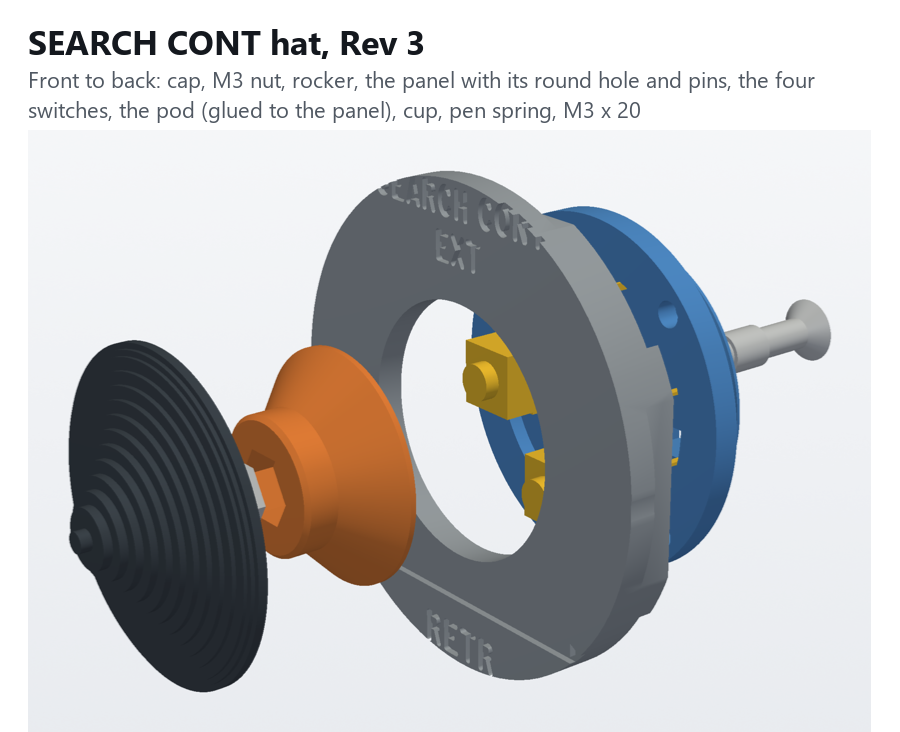
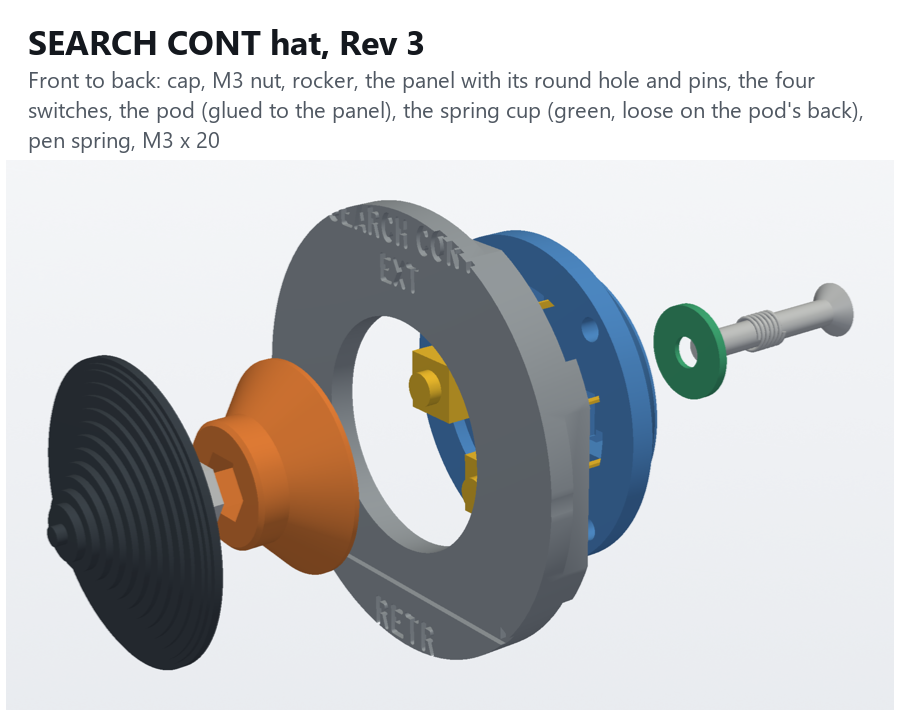
Hat Rev 3 renders: show the spring cup and spring
The cup was hidden behind the pod in the exploded view and the same blue as the
pod in the section, and the spring wasn't drawn at all. Now the cup is green,
the back stack is spread clear of the pod, the spring is a wire coil, and a new
render shows the hat from behind with the cup in place. In the pushed section
the cup slides with the screw, as it does in use.

The check now also slides the loose cup to follow the tipped screw (up to
1.3 mm) and confirms it hits nothing. The README says where the cup goes and
not to glue it.

diff --git a/Head/Rev5/Hat/render_hat3.py b/Head/Rev5/Hat/render_hat3.py
@@ -13,6 +13,8 @@ import hat3_r5 as m3
 import huey_head_r5 as h
 from render_hat2 import render, titled, GREY, DARK, YELLOW, ORANGE, BLUE, STEEL, FONT_B
 
+GREEN = "#3fae7c"                                       # the spring cup, so it stands out from the pod
+
 
 def panel_crop():
     lp, _ = m3.lower_panel()
@@ -27,16 +29,47 @@ def switches():
     return out
 
 
+def coil(warp=None, turns=6, wire=0.4, od=4.0):
+    """The pen spring as a wire helix, from the cup's seat to the screw head, as fitted. warp(p) moves its points
+    (N x 3) for a tipped pose."""
+    y0 = m3.Y_BACK + m3.CUP_T - m3.CUP_SEAT[1]
+    L, rm = m3.spring_len(), (od - wire) / 2
+    w = mf.Manifold.cylinder(turns, wire / 2, wire / 2, 12).refine_to_length(0.03)
+
+    def f(p):
+        t = p[:, 2]
+        a = 2 * np.pi * t
+        er = np.stack([np.cos(a), np.zeros_like(a), np.sin(a)], 1)
+        c = rm * er + np.stack([np.zeros_like(t), y0 + wire / 2 + t / turns * (L - wire), np.zeros_like(t)], 1)
+        q = c + p[:, :1] * er + p[:, 1:2] * [0, 1, 0]
+        return q if warp is None else warp(q)
+    return w.warp_batch(f)
+
+
+def pushed(n, d, th):
+    """The cup slid to follow the screw, and the spring between it and the tipped head."""
+    sx, sz = m3.cup_shift(n, d, th)
+    R, t = m3.tip_matrix(n, d, th)
+    y0, y1 = m3.Y_BACK + m3.CUP_T - m3.CUP_SEAT[1], m3.Y_BACK + m3.CUP_T - m3.CUP_SEAT[1] + m3.spring_len()
+
+    def warp(q):
+        s = np.clip((q[:, 1:2] - y0) / (y1 - y0), 0, 1)
+        return (1 - s) * (q + [sx, 0, sz]) + s * (q @ R.T + t)
+    return m3.cup().translate((sx, 0, sz)), coil(warp)
+
+
 def exploded(out):
     g = 10.0
+    back = 1.2 * g + 16                                 # the cup, spring and screw spread out behind the pod, clear of it
     items = [(m3.cap().translate((0, -2.6 * g, 0)), DARK), (m3.nut().translate((0, -1.9 * g, 0)), STEEL),
              (m3.rocker().translate((0, -1.4 * g, 0)), ORANGE), (panel_crop(), GREY),
              (switches().translate((0, 0.6 * g, 0)), YELLOW), (m3.pod().translate((0, 1.2 * g, 0)), BLUE),
-             (m3.cup().translate((0, 1.8 * g, 0)), BLUE), (m3.spring().translate((0, 2.2 * g, 0)), STEEL),
-             (m3.screw().translate((0, 2.8 * g, 0)), STEEL)]
+             (m3.cup().translate((0, back, 0)), GREEN), (coil().translate((0, back + 8, 0)), STEEL),
+             (m3.screw().translate((0, back + 16, 0)), STEEL)]
     img = render(items, view=(1.0, -0.8, 0.5), up=(0, 0, 1), zoom=1.1)
     titled(img, "SEARCH CONT hat, Rev 3", "Front to back: cap, M3 nut, rocker, the panel with its round hole and pins, "
-           "the four switches, the pod (glued to the panel), cup, pen spring, M3 x 20", out)
+           "the four switches, the pod (glued to the panel), the spring cup (green, loose on the pod's back), "
+           "pen spring, M3 x 20", out)
 
 
 def pod_view(out):
@@ -45,15 +78,26 @@ def pod_view(out):
            "pockets, and the three holes for the panel's pins. It prints back down", out)
 
 
+def back_view(out):
+    """Assembled, from behind: where the cup, spring and screw go."""
+    items = [(panel_crop(), GREY), (m3.pod(), BLUE), (switches(), YELLOW), (m3.cup(), GREEN), (coil(), STEEL),
+             (m3.screw(), STEEL), (m3.rocker(), ORANGE), (m3.cap(), DARK)]
+    img = render(items, view=(0.55, 1.0, 0.55), up=(0, 0, 1), zoom=1.15)
+    titled(img, "Rev 3 hat from behind", "The spring cup (green) sits loose on the middle of the pod's back, seat "
+           "outward, with the screw through it. The pen spring sits in the seat, under the screw's head. "
+           "Don't glue the cup: it slides a little as the hat tips", out)
+
+
 def section(out):
     half = mf.Manifold.cube((40, 40, 60)).translate((-40, -20, -30))
-    fixed = [(panel_crop(), GREY), (switches(), YELLOW), (m3.pod(), BLUE), (m3.cup(), BLUE)]
+    fixed = [(panel_crop(), GREY), (switches(), YELLOW), (m3.pod(), BLUE)]
     n, d = np.array([0.0, 1.0]), m3.R_OCT
     th = next(t for t in np.radians(np.arange(0, 20, 0.05)) if m3.btn_travel(n, d, t)[0] >= m3.BTN_GAP + m3.CLICK[1])
     imgs = []
     for t in (0.0, th):
         moving = [(m3.tipped(p, n, d, t), c) for p, c in ((m3.rocker(), ORANGE), (m3.cap(), DARK), (m3.screw(), STEEL), (m3.nut(), STEEL))]
-        items = [(mm ^ half, c) for mm, c in fixed + moving]
+        cup, spring = pushed(n, d, t) if t else (m3.cup(), coil())
+        items = [(mm ^ half, c) for mm, c in fixed + moving + [(cup, GREEN), (spring, STEEL)]]
         imgs.append(render(items, view=(1, 0, 0), up=(0, 0, 1), zoom=1.05, parallel=True))
     W, Hh = imgs[0].width + imgs[1].width, max(i.height for i in imgs)
     both = Image.new("RGB", (W, Hh + 40), (250, 251, 252))
@@ -64,7 +108,9 @@ def section(out):
     d_.text((30, 6), "At rest: the boss sits on the anvil", font=f, fill=(20, 24, 30))
     d_.text((imgs[0].width + 30, 6), f"Pushed north, {np.degrees(th):.1f} degrees: N clicks", font=f, fill=(20, 24, 30))
     titled(both, "Rev 3 hat, cut north to south", "Thumb side to the left, north up. The rocker tips over the anvil's "
-           "north edge; the north button goes in and the south side lifts. A push on the middle goes into the anvil", out)
+           "north edge; the north button goes in and the south side lifts. A push on the middle goes into the anvil. "
+           "Behind the pod, the pen spring is squeezed between the spring cup (green) and the screw's head, so it pulls "
+           "the screw, and with it the rocker, back onto the anvil", out)
 
 
 if __name__ == "__main__":
@@ -72,4 +118,5 @@ if __name__ == "__main__":
     os.makedirs(out, exist_ok=True)
     exploded(os.path.join(out, "hat3_exploded.png"))
     pod_view(os.path.join(out, "hat3_pod.png"))
+    back_view(os.path.join(out, "hat3_back.png"))
     section(os.path.join(out, "hat3_section.png"))

diff --git a/Head/Rev5/Hat/hat3_r5.py b/Head/Rev5/Hat/hat3_r5.py
@@ -277,6 +277,17 @@ def modes():
     return out
 
 
+def cup_shift(n, d, theta):
+    """Where the tipped screw's axis crosses the cup's mid-plane, (x, z): the loose cup is dragged there, sliding on
+    the pod's back (its hole is only 0.2 mm bigger than the screw)."""
+    R, t = tip_matrix(n, d, theta)
+    p0, p1 = R @ [0, 0, 0] + t, R @ [0, 1, 0] + t
+    yc = Y_BACK + CUP_T / 2
+    s = (yc - p0[1]) / (p1[1] - p0[1])
+    p = p0 + s * (p1 - p0)
+    return np.array([p[0], p[2]])
+
+
 def vol(m):
     return m.volume() if m.num_vert() else 0.0
 
@@ -313,7 +324,7 @@ def check():
 
     print("\nevery way it can tip, to where it stops (buttons left out: they bottom first, see the angles):")
     print(f"  {'mode':14s} {'stop':>6s}  {'N':>5s} {'E':>5s} {'S':>5s} {'W':>5s}  click nom/max at   stopped by")
-    worst = []
+    worst, cups = [], []
     for label, n, d in modes():
         lo, hi = 0.0, np.radians(30)
         assert not hits(1e-4, n, d), (label, hits(1e-4, n, d))
@@ -333,9 +344,16 @@ def check():
             return float("nan")
         clicks = sum(v >= BTN_GAP + CLICK[2] for v in tr)
         worst.append((label, s[-3] if len(s) > 2 else 0, clicks))
+        sx, sz = cup_shift(n, d, lo)
+        slid = cup().translate((sx, 0, sz))
+        cup_bad = [k for k, m in (("screw", tipped(screw(), n, d, lo)), ("pod", P), ("legs", legs)) if vol(slid ^ m) > 0.002]
+        cups.append((np.hypot(sx, sz), cup_bad))
         print(f"  {label:14s} {np.degrees(lo):5.1f}d  " + " ".join(f"{v:5.2f}" for v in tr) +
               f"  {first(CLICK[1]):4.1f} / {first(CLICK[2]):4.1f}d   " + ", ".join(hits(hi, n, d)))
     print(f"\nmost a third button moves: {max(w[1] for w in worst):.3f} mm (a click needs {BTN_GAP + CLICK[0]:.2f} at the least)")
+    bad = sorted({k for _, b in cups for k in b})
+    print(f"the loose cup slides up to {max(c[0] for c in cups):.2f} mm on the pod's back, following the screw; "
+          f"slid, it hits: {', '.join(bad) or 'nothing'}")
 
 
 def pod_trim(P):

diff --git a/Head/Rev5/Hat/README.md b/Head/Rev5/Hat/README.md
@@ -119,18 +119,20 @@ Rev 1 and 2 put the switch carrier in the lower panel, so the panel needed suppo
 | `HueyHeadR5-LowerPanel-Hat3-Black` / `-WhiteText` | face down, as before (Arachne, 0.42 mm first layer); no supports |
 | `HueyHeadR5-Hat3-Pod.stl` | back down, as it comes; no supports |
 | `HueyHeadR5-Hat3-Rocker.stl` | stem down, as it comes: the cone is 45°; no supports |
-| `HueyHeadR5-Hat3-SpringCup.stl` | flat |
+| `HueyHeadR5-Hat3-SpringCup.stl` | flat. A 10 mm washer with a shallow seat for the spring. It goes on the pod's back, round the screw hole, seat outward, and isn't glued |
 | `HueyHeadR5-Hat3-Cap.stl` | base down |
 
 Print the pod and rocker with 0.2 mm layers (or 0.1 mm): their heights are whole layers.
 
 Hardware: 4 × TE 1825910-6 (the ones you have), an **M3 × 20 countersunk + M3 nut** (kit), and a **pen spring** from the trigger's pack, cut to about 6 coils. It fits 4.2 mm long and closes another 0.6 mm at full tilt, so it must not go solid above 3.5 mm.
 
+![From behind: the cup, spring and screw in place](renders/hat3_back.png)
+
 Fitting it:
 1. Put the four switches in the pod's pockets from the front, legs out the back, and wire them.
 2. Glue the pod to the panel's back over the pins.
 3. Press the M3 nut into the hex pocket in the rocker's stem. Put the rocker in through the panel's hole, boss first, into the square bore.
-4. From behind: the screw through the spring, then the cup (seat toward the spring), then the pod, into the nut. Hold the stem and turn the screw until the head's top is about 6 mm behind the pod's back. The rocker should sit firm, with no rattle.
+4. From behind: the screw through the spring, then the cup (seat toward the spring), then the pod, into the nut. The cup ends up flat on the middle of the pod's back, with the spring between it and the screw's head. Don't glue it: as the hat tips, the screw swings and drags the cup up to 1.3 mm across the pod's back. Hold the stem and turn the screw until the head's top is about 6 mm behind the pod's back. The rocker should sit firm, with no rattle.
 5. With a meter, check that no switch reads closed at rest, that each side clicks only its own switch, and that each diagonal clicks its two.
 6. Glue the cap on the stem.
 
@@ -142,4 +144,4 @@ Checked in CAD (`--check`): nothing overlaps at rest, and the pod, switches and 
 | NE, SE, SW, NW | 7.2° / 10.2° | both neighbours | 12.9° |
 | anywhere between | 4.6–5.8° / 6.5–8.3° | one, the second partly | 13.1° |
 
-No third button ever moves. Not printed yet. If a switch reads closed at rest, raise `BTN_GAP` by 0.2 and reprint only the rocker. If a diagonal won't click, lower it by 0.2.
+No third button ever moves. Slid to wherever the screw drags it, the cup still covers the pod's screw hole and clears the switch legs. Not printed yet. If a switch reads closed at rest, raise `BTN_GAP` by 0.2 and reprint only the rocker. If a diagonal won't click, lower it by 0.2.
